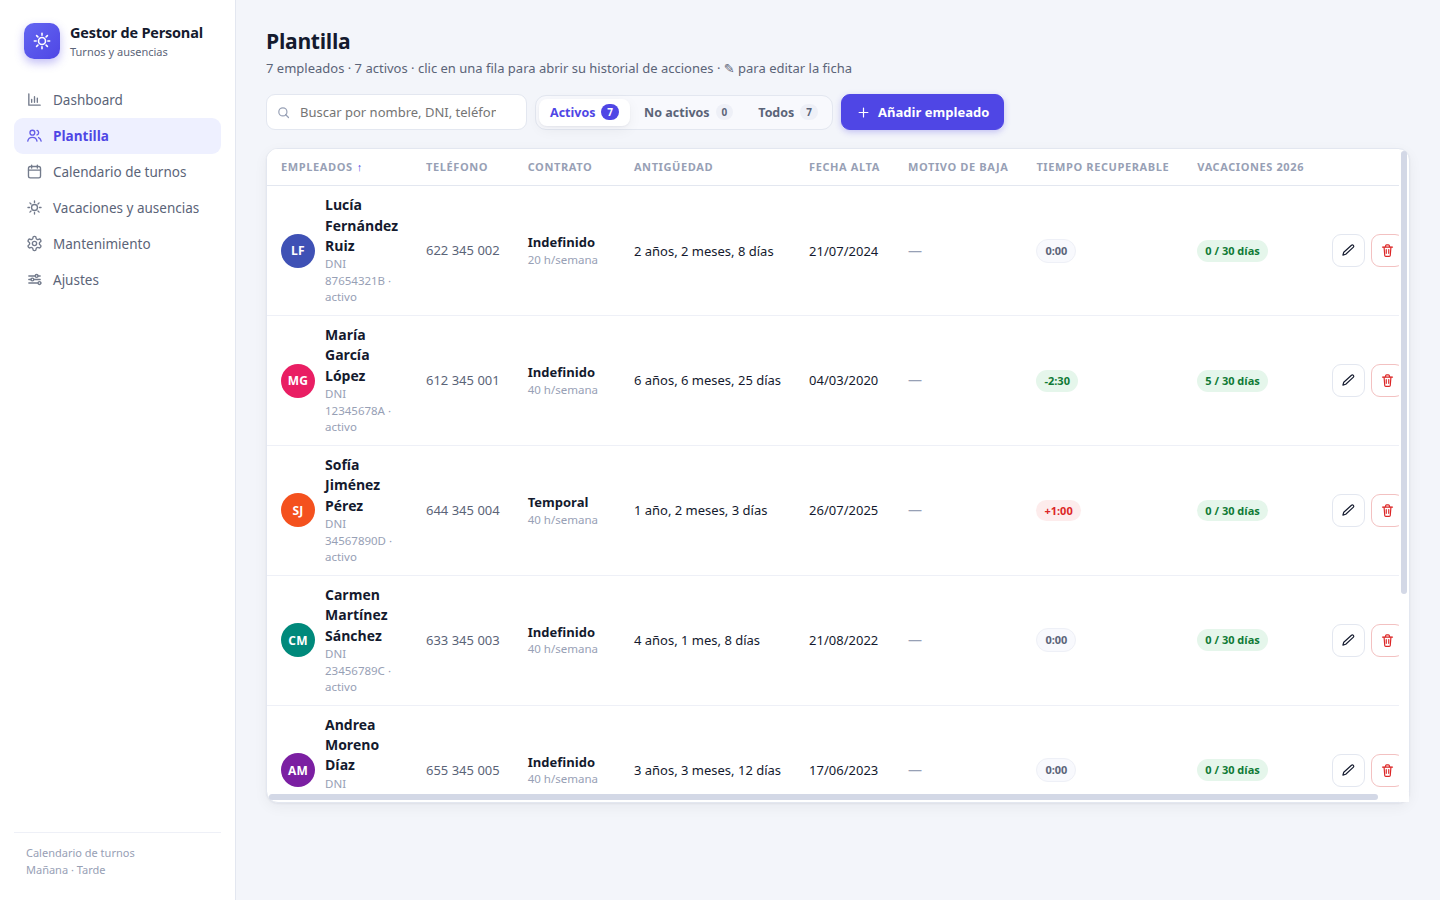
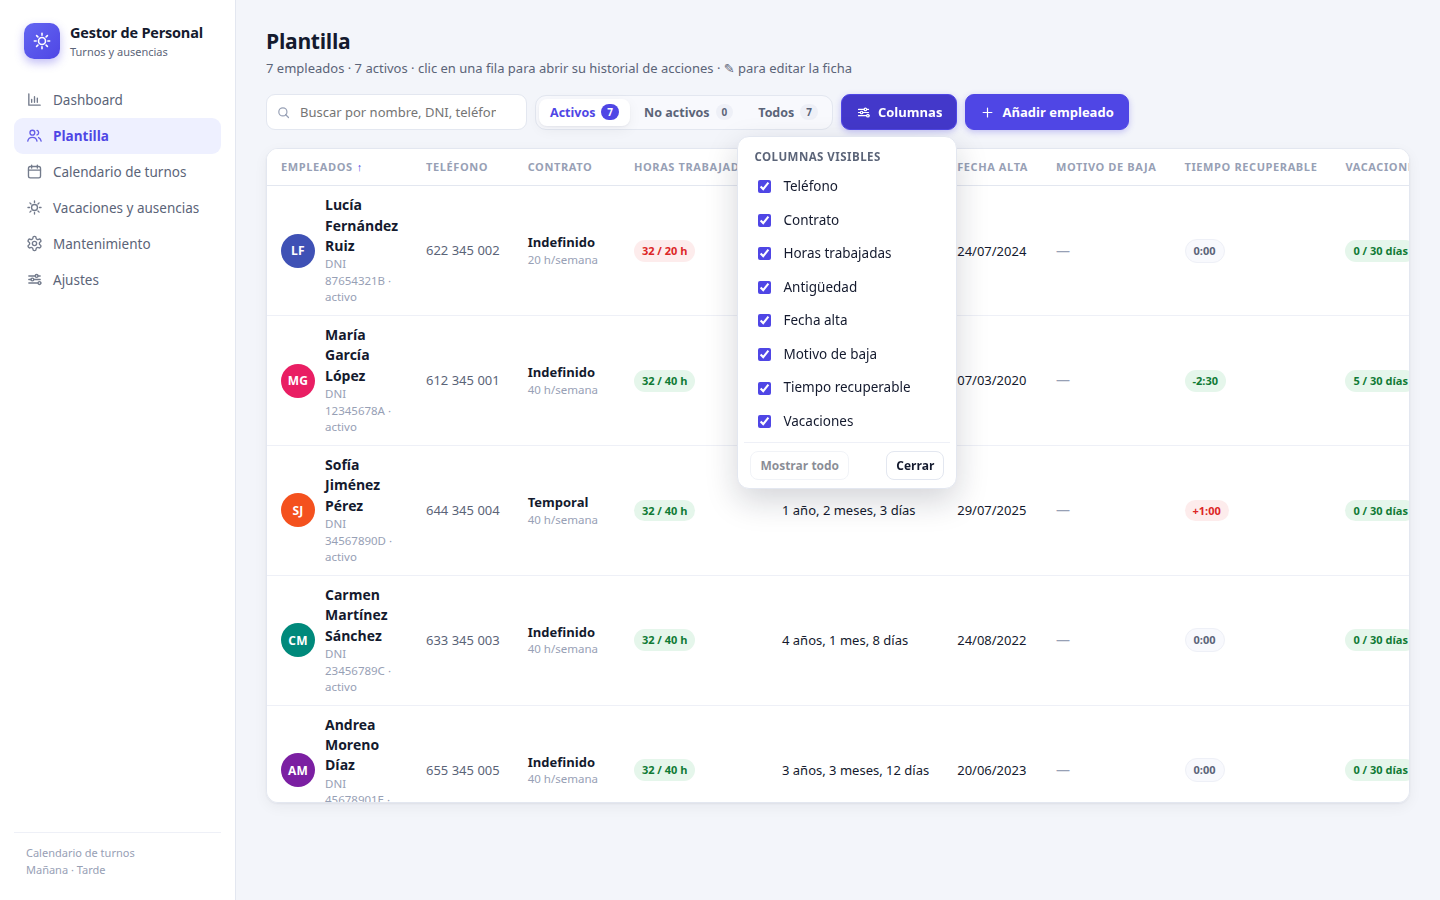
docs: document the roster's worked hours and column selector
Describe both new roster columns in the README, refresh the
plantilla.png screenshot showing the new column and the open column
menu, and drop an inaccurate note claiming the version sync runs
automatically before the tests.

🤖 Generated with Codebuff

diff --git a/README.md b/README.md
@@ -43,10 +43,18 @@ Hovering any point or bar shows its exact value.
 - **Status filter**: Active / Not active / All, with counters (**default Active**).
 - **Single search box**: one box searches **name, last name, ID, phone and termination reason**
   at once, combined (AND) with the status filter.
+- **Column selector**: a *Columns* button in the header opens a menu with a checkbox per column,
+  so you can hide the ones you don't need (the employee column and the action buttons always
+  stay). The choice is remembered between sessions, travels with export/import, and *Show all*
+  restores every column at once.
 - **Sortable table**: click any header (↑/↓ toggles direction). Columns:
   - **Employees** — avatar with initials, full name, ID and status (active / terminated + date).
   - **Phone**.
   - **Contract** — contract type and weekly hours.
+  - **Worked hours** — `worked / contracted h`: the hours already worked in the **current working
+    week** (only days before today count, so on Thursday it covers Monday–Wednesday) against the
+    weekly hours from the profile. It resets to zero at the start of each working week (the start
+    day configured in Settings) and the label refreshes every minute.
   - **Tenure** — computed automatically from the start date («2 years, 3 months, 5 days») until
     today or until the termination date.
   - **Start date**.
@@ -357,11 +365,10 @@ cd web
 npm run version
 ```
 
-That command (also run automatically before `npm test`) propagates the version to `package.json`,
-`package-lock.json`, `src-tauri/tauri.conf.json` and `src-tauri/Cargo.toml`, so the other files
-never drift out of sync. To publish a release, push to `main` with a last commit message
-`Release x.y.z` matching the `VERSION` file — the workflow verifies that both match and fails the
-release if they don't.
+That command propagates the version to `package.json`, `package-lock.json`,
+`src-tauri/tauri.conf.json` and `src-tauri/Cargo.toml`, so the other files never drift out of
+sync. To publish a release, push to `main` with a last commit message `Release x.y.z` matching
+the `VERSION` file — the workflow verifies that both match and fails the release if they don't.
 
 ## Structure
 
